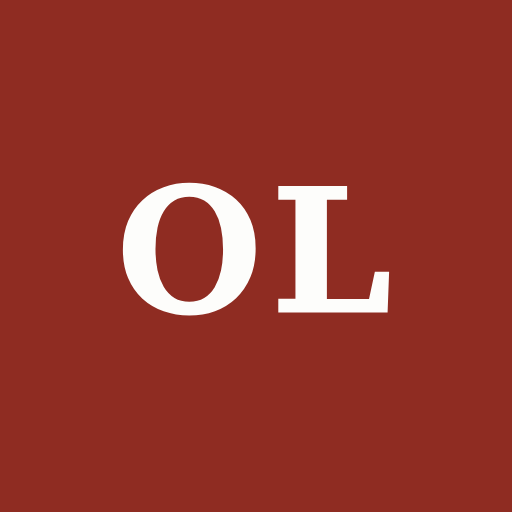
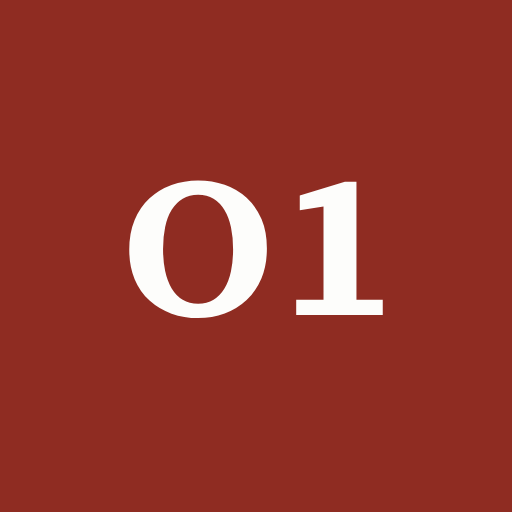
Set the mark as O1 and let the name resettle into it
- The monogram is now O1. The digit is drawn to 638 units against a cap
  height of 670, so beside a capital O it read small; it is scaled to the cap
  band, which also thickens its stem enough to hold against the O. Tracking
  opened to +10 to match the gap the O and L had.
- Sizing is now by cap height rather than ink width, so the letters stay the
  same size whatever the monogram spells and only the margins change.
- Every icon and the share card regenerated from that source.
- Hovering the masthead name resettles Owen Loh into O1 Loh one character
  position at a time, which is where the mark comes from. Same serif, same
  size, no colour shift; about 200ms. The span is pinned to the wider of the
  two spellings, so no state moves the page, and the churn only draws on
  characters the two spellings already contain. Bound only where hover
  exists, so it cannot stick on a touch screen, and reduced motion swaps the
  name outright.

Claude-Session: https://claude.ai/code/session_01QtRohrCXob6Nya35Cu6ryw

Changed region(s): [[0.2188, 0.3438, 0.5312, 0.625], [0.5312, 0.3438, 0.7812, 0.625]]

diff --git a/script.js b/script.js
@@ -14,6 +14,8 @@
   var clamp = function (x, a, b) { return Math.min(b, Math.max(a, x)); };
   var pct = function (v) { return (clamp(v, 0, 1) * 100).toFixed(3) + '%'; };
   var svgEl = function (name) { return document.createElementNS('http://www.w3.org/2000/svg', name); };
+  var reduceMotion = window.matchMedia('(prefers-reduced-motion: reduce)');
+  var canHover = window.matchMedia('(hover: hover)');
 
   /* ------------------------------------------------------------------------
      1. Catalon: order intake
@@ -504,6 +506,79 @@
     render();
   }
 
+
+  /* ------------------------------------------------------------------------
+     The masthead name
+
+     The mark reads O1, which only makes sense once you have seen the name do
+     it. On hover the letters resettle into it, one position at a time, drawing
+     only on the characters the two spellings already contain, so it reads as
+     the same name re-forming rather than as noise.
+     ------------------------------------------------------------------------ */
+
+  var SETTLE_MS = 26;   // one position locks every this often
+  var CHURN_MS = 45;    // unsettled positions re-draw at this rate
+
+  function nameSwap(el) {
+    var from = el.textContent;
+    var to = el.dataset.alt;
+    var pool = (from + to).replace(/ /g, '').split('');
+    var span = Math.max(from.length, to.length);
+    var timer = null;
+    var settleAt = 0;
+    var current = from;
+
+    // Hold the wider spelling's width so neither state moves the page.
+    function pin() {
+      el.style.width = '';
+      var w = Math.max(measure(from), measure(to));
+      el.style.width = w.toFixed(2) + 'px';
+    }
+
+    function measure(text) {
+      var prev = el.textContent;
+      el.textContent = text;
+      var w = el.getBoundingClientRect().width;
+      el.textContent = prev;
+      return w;
+    }
+
+    function frame(target) {
+      var out = '';
+      for (var i = 0; i < span; i++) {
+        if (i < settleAt) out += target[i] || '';
+        else if (i < current.length || i < target.length) {
+          out += pool[Math.floor(Math.random() * pool.length)];
+        }
+      }
+      el.textContent = out;
+    }
+
+    function run(target) {
+      clearInterval(timer);
+      if (reduceMotion.matches) { el.textContent = target; current = target; return; }
+      settleAt = 0;
+      var started = Date.now();
+      timer = setInterval(function () {
+        settleAt = Math.floor((Date.now() - started) / SETTLE_MS);
+        if (settleAt > span) {
+          clearInterval(timer);
+          el.textContent = target;
+          current = target;
+          return;
+        }
+        frame(target);
+      }, CHURN_MS);
+    }
+
+    pin();
+    if (document.fonts && document.fonts.ready) document.fonts.ready.then(pin);
+    window.addEventListener('resize', pin);
+
+    el.addEventListener('pointerenter', function () { run(to); });
+    el.addEventListener('pointerleave', function () { run(from); });
+  }
+
   /* ---------------------------------------------------------------------- */
 
   var mount = [
@@ -518,4 +593,8 @@
     var root = $(pair[0]);
     if (root) pair[1](root);
   });
+
+  // Hover only: on a touch screen the swapped name would simply stick.
+  var name = $('.name');
+  if (name && canHover.matches) nameSwap(name);
 }());

diff --git a/style.css b/style.css
@@ -128,6 +128,14 @@ img { max-width: 100%; height: auto; }
   letter-spacing: -.005em;
 }
 
+/* Pinned to the wider of the two strings, measured once the webfont is in, so
+   the substitution never reflows the page. Transient frames may overhang a
+   little to the right, where there is nothing to disturb. */
+.name {
+  display: inline-block;
+  white-space: pre;
+}
+
 .standfirst {
   margin: 0 0 20px;
   font-size: 20px;
@@ -710,6 +718,7 @@ input[type='range'] {
 
 @media (prefers-reduced-motion: reduce) {
   html { scroll-behavior: auto; }
+  /* script.js also drops the per-character churn and swaps the name outright */
   * { transition-duration: .01ms !important; }
 }
 

diff --git a/index.html b/index.html
@@ -58,7 +58,7 @@
 <main class="paper">
 
   <header class="masthead">
-    <h1>Owen Loh</h1>
+    <h1><span class="name" data-alt="O1 Loh">Owen Loh</span></h1>
     <p class="standfirst">Founder and physicist.</p>
 
     <dl class="facts">

diff --git a/README.md b/README.md
@@ -10,7 +10,7 @@ entries carry a working demonstration.
 | `style.css` | tokens, paper layout, demo components, responsive and print |
 | `script.js` | the five demonstration models and their render passes |
 | `assets/` | figures, fonts, the share card |
-| `favicon.svg`, `favicon.ico`, `apple-touch-icon.png` | the OL mark |
+| `favicon.svg`, `favicon.ico`, `apple-touch-icon.png` | the O1 mark |
 | `site.webmanifest`, `robots.txt`, `sitemap.xml`, `404.html` | the rest of a whole site |
 
 ## The demonstrations
@@ -34,11 +34,19 @@ the markup, so the document reads the same with scripting off.
 
 ## The mark
 
-`favicon.svg` is OL set in Source Serif 4 at weight 650 and optical size 8 -
+`favicon.svg` is O1 set in Source Serif 4 at weight 650 and optical size 8 -
 the small-text master, so the strokes hold up at 16px - with the outlines
-converted to paths. Nothing about it depends on a font being installed. Every
-other icon, and the 1200x630 share card in `assets/og.png`, is rendered from
-that same source.
+converted to paths. Nothing about it depends on a font being installed. The
+digit is drawn shorter than the capital, so it is scaled to the cap band;
+sizing is by cap height rather than ink width, which keeps the letters the
+same size whatever the monogram spells. Every other icon, and the 1200x630
+share card in `assets/og.png`, is rendered from that same source.
+
+Hovering the masthead name resettles `Owen Loh` into `O1 Loh`, one character
+position at a time, which is where the mark comes from. The span is pinned to
+the wider of the two spellings so nothing on the page moves, the churn only
+uses characters the two spellings already contain, and `prefers-reduced-motion`
+swaps the name outright instead.
 
 ```sh
 python3 -m http.server 8000   # then visit http://localhost:8000
